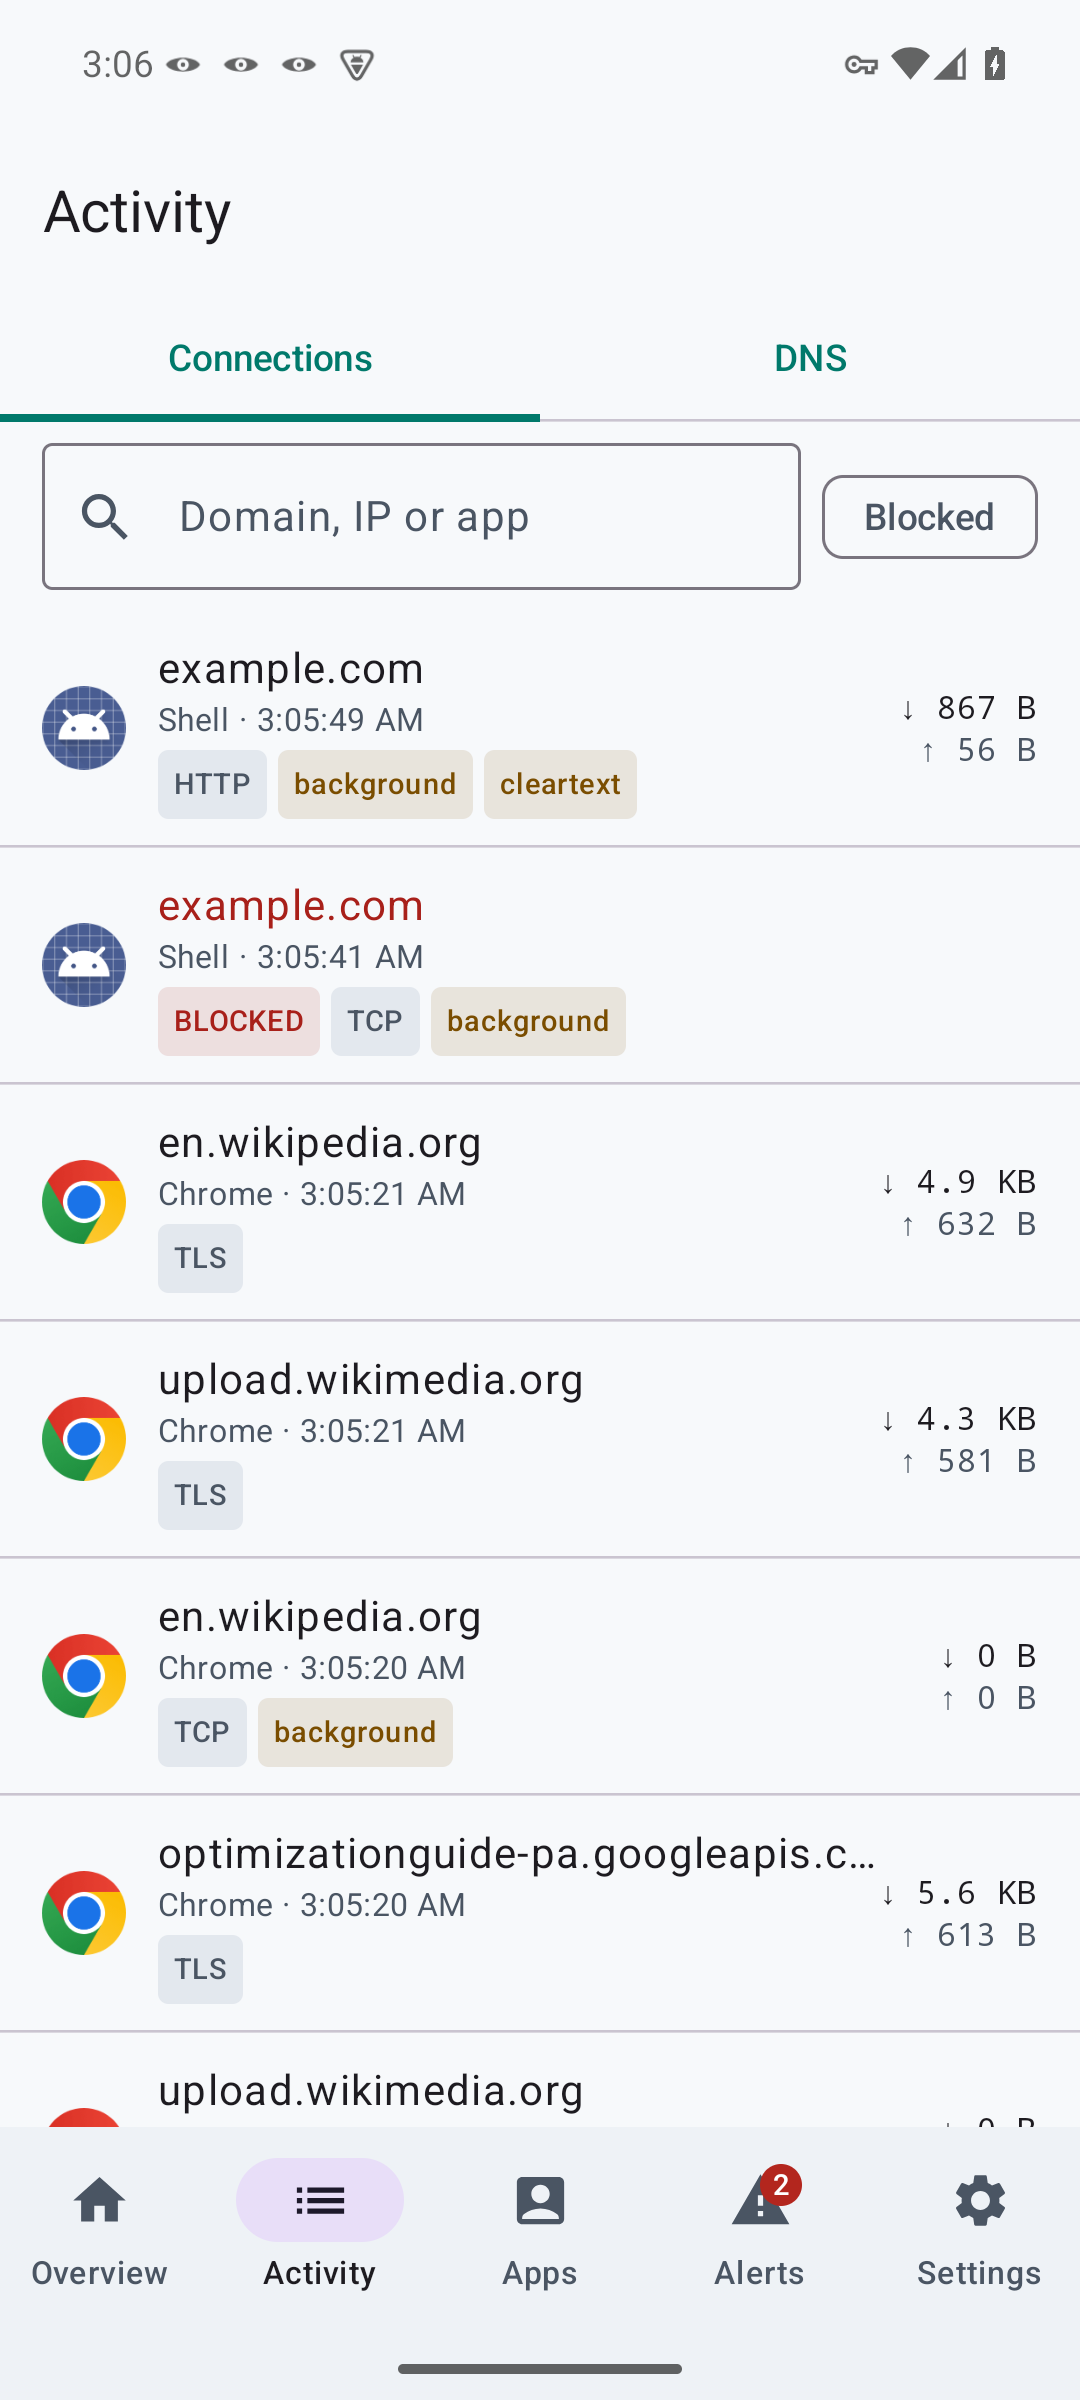
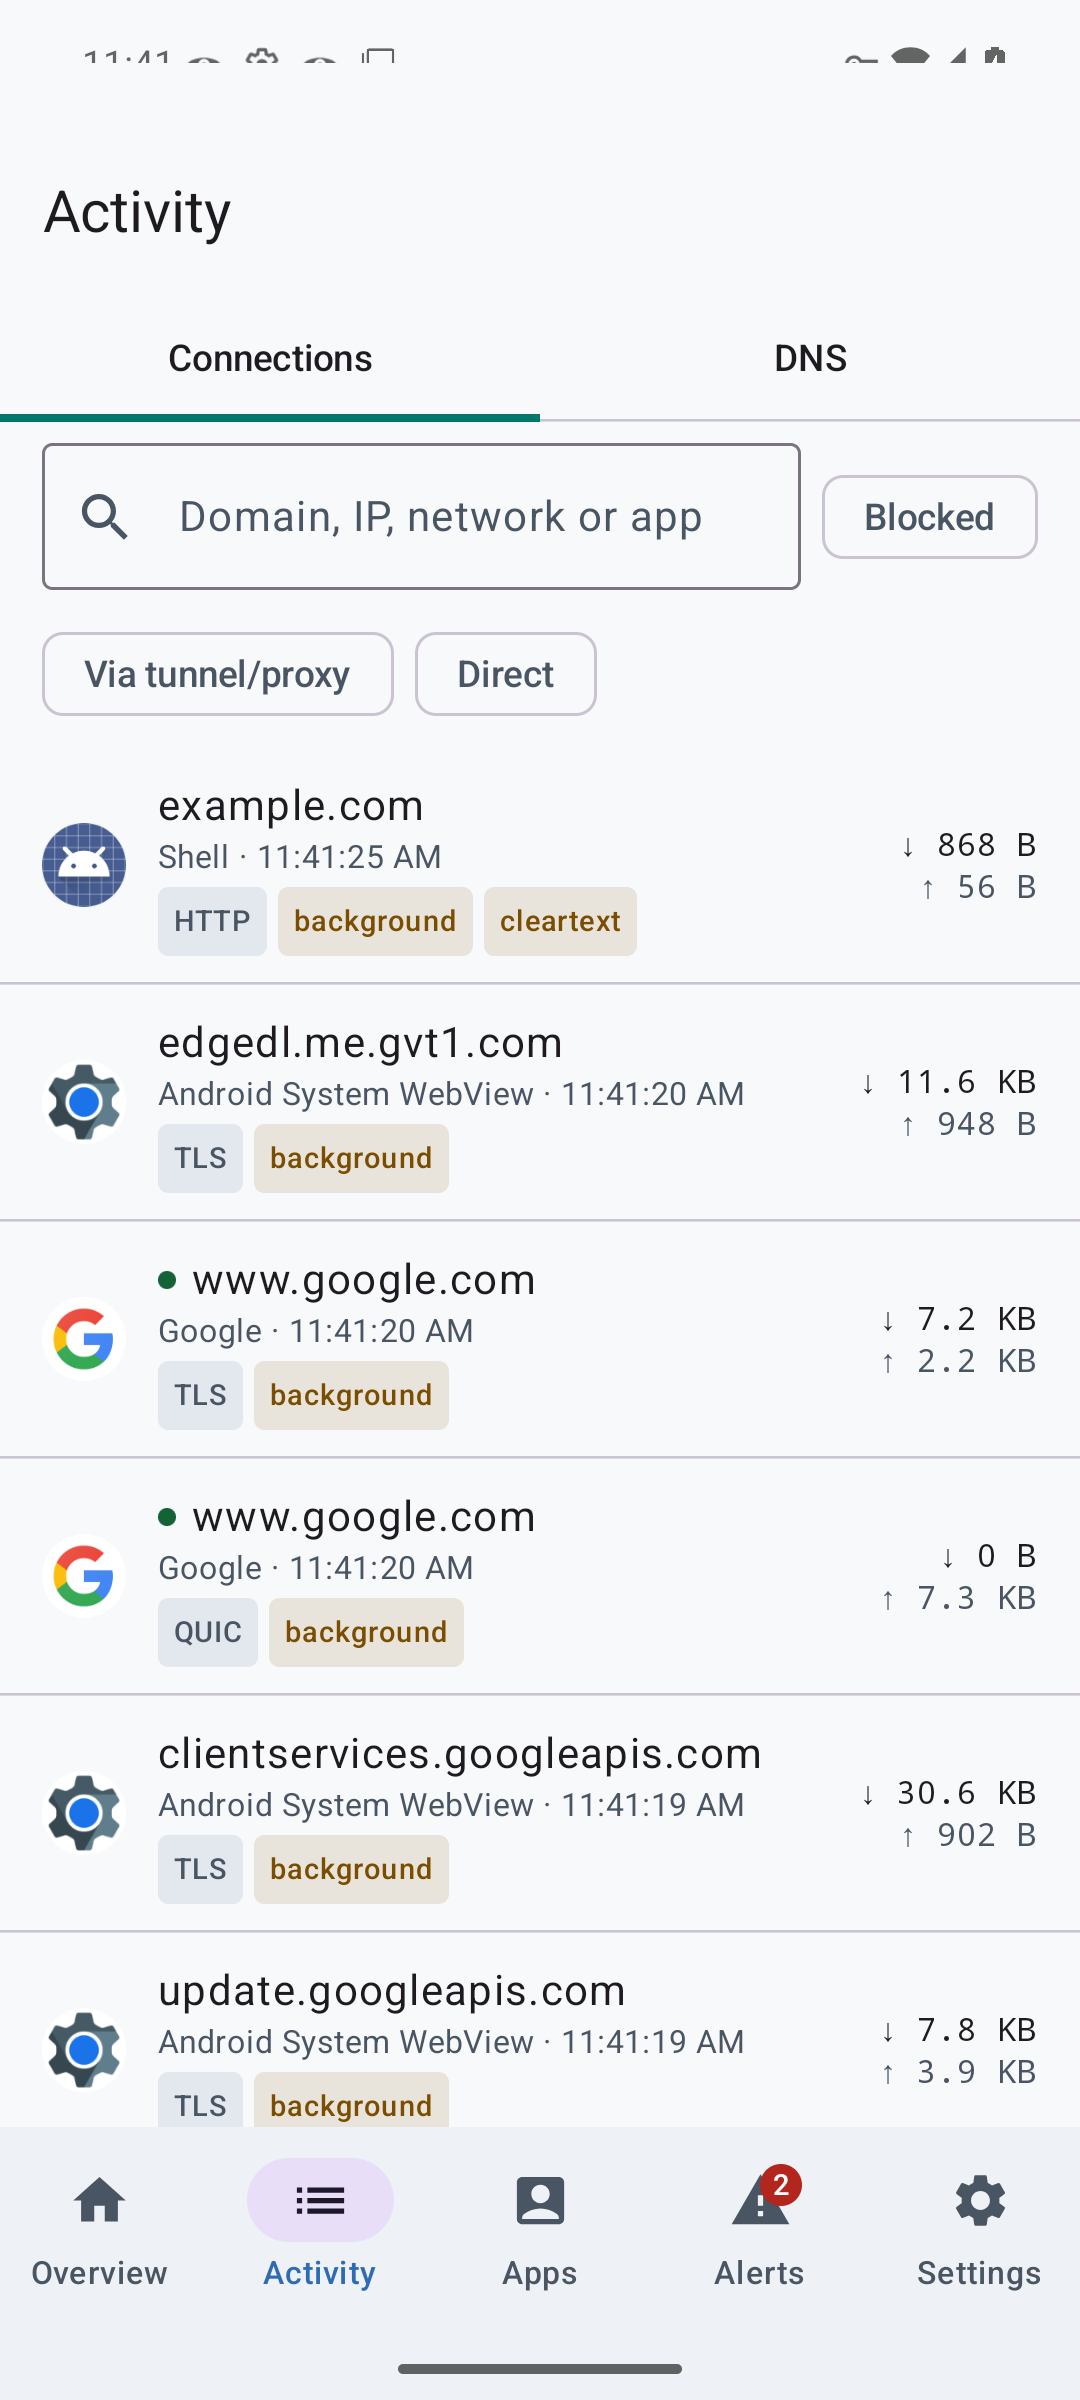
Docs and on-device checks for the post-0.3.0 work; Android 16 emulator

diff --git a/docs/STATUS.md b/docs/STATUS.md
@@ -104,6 +104,37 @@ Costs and caveats: arm64 `libvigil.so` grew from 1.44 MB to 3.16 MB
 Still needs a device: a real WireGuard provider `.conf` (roaming, battery
 with keepalive) and Orbot on 127.0.0.1:9050 with Orbot excluded from the VPN.
 
+## New after 0.3.0 (2026-09-28, unreleased)
+
+Built in parallel by three agents, then a toolchain upgrade on the merged
+tree. Every suite passes (numbers in DEVELOPMENT.md).
+
+- **Path and DNS transport per connection:** Room schema v4 stores `via`
+  (direct / WireGuard / SOCKS5) and the DNS `upstream` (UDP / TCP / DoT /
+  DoH); shown in flow detail and Activity (with a "via tunnel/proxy" filter).
+- **Offline ASN enrichment:** iptoasn.com (public domain), downloaded weekly
+  (9 MB gzipped), about 10 MB of engine memory; `asn` on flow events, AS
+  labels in the UI, ECS `destination.as.*` in the SIEM export. Opt-in
+  `new_asn` alerts ("an app contacted a network it never used") with a
+  learning period (7 days by default).
+- **Beaconing inside one connection** (`beacon` with `detail.kind =
+  "intra_flow"`), sampled from flow counters once per housekeeping tick;
+  push channels (FCM, Apple, Mozilla) are ignored by default.
+- **Upload-volume alerts** (`exfil_volume`, app-side): background uploads
+  above a floor (50 MB/h by default) and 3× the app's own baseline, one-way
+  traffic only; backup/sync apps exempt.
+- **Performance:** 5.6 s CPU per GB instead of 12.1, 2.9 Gbit/s instead of
+  1.3 on the host; fixed relays being held 10 s after close (and SYNs on a
+  reused port being swallowed): 5,000 short connections in 1 s instead of
+  12–23 s. Events reach the app up to 20 ms later (batched).
+- **One engine worker by default:** 17–34% less CPU than two; the "Maximum
+  throughput" setting switches to two (session restart). Rust's own default
+  stays 2 (CLI and benchmarks).
+- **Toolchain:** Gradle 9.8.0, AGP 9.4.1, Kotlin 2.4.20, compileSdk and
+  targetSdk 36, current AndroidX, Room 2.8.5 (KSP2), CI actions on Node 24;
+  the lint `GradleDependency` check is enabled again. Reproducible builds
+  still verified (two clean builds, identical APKs).
+
 ## Feature inventory
 
 **Engine:** TUN dispatch; user-space TCP (smoltcp via `netstack-smoltcp`)
@@ -136,7 +167,10 @@ history.
    also runs on a rooted/userdebug phone. Still needed on real hardware: at
    least one Pixel and one Samsung (One UI is aggressive with background
    services), battery drain over a day, and an IPv6-only carrier (464XLAT /
-   NAT64).
+   NAT64). Also: a speed test with vigil on, with "Maximum throughput" off
+   (1 engine worker, the default) and on (2 workers), plus vigil's battery
+   use in Android settings over a day in each mode, to confirm the default.
+   And WireGuard with a real provider `.conf`, and Orbot on 127.0.0.1:9050.
 2. **F-Droid submission.** Decided: F-Droid first, with reproducible builds so
    F-Droid publishes the developer-signed APK. Done: release keystore (kept
    outside the repo by the owner; certificate SHA-256
@@ -151,20 +185,18 @@ history.
    open unprivileged ICMP datagram sockets (`SOCK_DGRAM`/`IPPROTO_ICMP`), so
    echo requests could be relayed in `engine/mod.rs` `dispatch()` (the
    `_ => drop_it()` arm).
-4. **Per-packet CPU.** Profile the relay (about 12 s/GB). Candidates: a
-   `Vec` allocation per packet in `dispatch`, mpsc hops (TUN → stack sink →
-   smoltcp → stack stream → TUN writer), and reads of 16 KB copy chunks.
-   Batching TUN reads or reusing buffers is likely the biggest win. Measure
-   with `LOCAL=1 BYTES=1000000000 scripts/bench-throughput.sh`. A larger TCP
-   window made no difference.
-5. **Store `via` and DNS `upstream` in Room** (schema v4) so the app can
-   show per-flow which path and DNS transport was used; add a WireGuard
-   throughput benchmark and consider a larger tunnelled TCP window.
-6. **ASN / geo enrichment.** An offline IP→ASN database (e.g. iptoasn.com)
-   would enable "new ASN for this app" alerts and nicer UI labels.
-7. **Beaconing on long-lived connections.** Today only connection starts
-   are observed. Periodic `flow_update` byte deltas could detect heartbeats
-   inside one connection.
+4. **More per-packet CPU work** (5.6 s/GB now, from 12.1). Ranked ideas from
+   the profiling pass: a 4-tuple lookup instead of smoltcp's per-packet
+   linear socket scan (big refactor); lazy or pooled per-connection 64 KB
+   buffers (cuts zeroing on short connections); a coarse clock for the
+   smoltcp loop (little gain on phones). Profile without `perf` as described
+   in DEVELOPMENT.md.
+5. **WireGuard throughput benchmark** and a larger tunnelled TCP window
+   (256 KiB today, about 40 Mbit/s at 50 ms RTT).
+6. **Persist the upload baseline in Room** (it is in `exfil_baseline.json`
+   today) and export `new_asn` / `new_destination` alerts to the SIEM.
+7. **Geolocation** (country of the address, not of the AS registration) if a
+   free offline dataset with a compatible licence exists.
 8. **PCAP export** of selected flows, for Wireshark users.
 9. **compileSdk and targetSdk 37.** The build is on compileSdk and
     targetSdk 36 with the newest AndroidX that supports them. Compose BOM
@@ -211,6 +243,9 @@ history.
 | Rust engine + Kotlin app, JNI (not UniFFI) | Tiny surface (9 functions), and no generated bindings to maintain. |
 | Poll events instead of JNI callbacks | Keeps JVM calls off the packet path; a slow consumer drops events, not packets. |
 | `netstack-smoltcp` instead of `ipstack`/tun2proxy | smoltcp's TCP is mature, and vigil keeps control of raw packets. `ipstack` describes itself as unstable and uses unbounded channels. |
+| One engine worker by default, two with "Maximum throughput" | Phones spend their time on small packets, where one worker uses 17–34% less CPU; it still relays about 1.75 Gbit/s on the host, beyond typical phone links. To be confirmed on a phone (backlog 1). |
+| Netstack TIME-WAIT 1 s and a new SYN replaces an old socket | The app side is a local TUN with no delayed segments; the 10 s TIME-WAIT held relays and buffers and swallowed SYNs on reused ports. |
+| iptoasn.com for ASN data | Public domain and anonymously downloadable; IPinfo Lite needs a token and is CC-BY-SA, DB-IP's URL changes monthly. |
 | 64 KB TCP window | The netstack default (320 KB × 4 buffers per connection) is too much memory on a phone, and 256 KB measured no faster. |
 | Upstream connect before SYN-ACK | Faithful failures for apps. |
 | minSdk 29 | `getConnectionOwnerUid`; the pre-29 kernel paths are SELinux-blocked. |

diff --git a/docs/DEVELOPMENT.md b/docs/DEVELOPMENT.md
@@ -49,7 +49,7 @@ scripts/jni-smoke.sh          # 28 checks, no root
 cd android && ./gradlew lintDebug testDebugUnitTest   # 116 JVM tests (1 skipped: TaxiiLiveTest)
 scripts/android-e2e.sh        # 28 checks, needs an emulator/userdebug device (see below)
 scripts/android-lifecycle.sh  # 21 checks + always-on at boot (reboots; SKIP_BOOT=1 to skip)
-scripts/android-features.sh   # 12 checks: DoH via Quad9, SOCKS5 via a proxy on the host, fail-closed
+scripts/android-features.sh   # 14 checks: DoH via Quad9, SOCKS5 via a proxy on the host, fail-closed, Maximum throughput restart
 LOCAL=1 BYTES=1000000000 scripts/bench-throughput.sh   # engine ceiling
 scripts/bench-throughput.sh                            # vs. real internet link
 ```
@@ -96,8 +96,9 @@ inspection.
 ## Emulator for on-device tests
 
 ```sh
-sdkmanager "emulator" "system-images;android-35;google_apis;x86_64"
+sdkmanager "emulator" "system-images;android-35;google_apis;x86_64" "system-images;android-36;google_apis;x86_64"
 echo no | avdmanager create avd -n vigil35 -k "system-images;android-35;google_apis;x86_64" -d pixel_6
+echo no | avdmanager create avd -n vigil36 -k "system-images;android-36;google_apis;x86_64" -d pixel_6   # targetSdk 36 behaviour
 emulator -avd vigil35 -no-window -no-audio -no-boot-anim -gpu swiftshader_indirect -no-snapshot -memory 3072 -cores 4 &
 adb wait-for-device; until [ "$(adb shell getprop sys.boot_completed | tr -d '\r')" = 1 ]; do sleep 3; done
 cd android && ./gradlew assembleDebug -Pvigil.abis=x86_64,arm64-v8a && cd .. && scripts/android-e2e.sh

diff --git a/CHANGELOG.md b/CHANGELOG.md
@@ -1,5 +1,19 @@
 # Changelog
 
+## Unreleased
+
+- Connections show which path they took (direct, WireGuard, SOCKS5) and
+  lookups which DNS transport answered (UDP, TCP, DoT, DoH).
+- Network (ASN) labels from an offline iptoasn.com table, and opt-in alerts
+  when an app contacts a network it never used before.
+- Beaconing detection inside long-lived connections; alerts for unusual
+  background upload volume.
+- About 2× less CPU per GB relayed; connections are released immediately
+  after they close (they were held for 10 s).
+- One engine thread by default to save battery; new "Maximum throughput"
+  setting.
+- Toolchain: AGP 9.4, Kotlin 2.4, compileSdk/targetSdk 36, current AndroidX.
+
 ## 0.3.0 (2026-09-28): GitHub pre-release
 
 - Encrypted upstream DNS: DNS over TLS and DNS over HTTPS (HTTP/2), with
